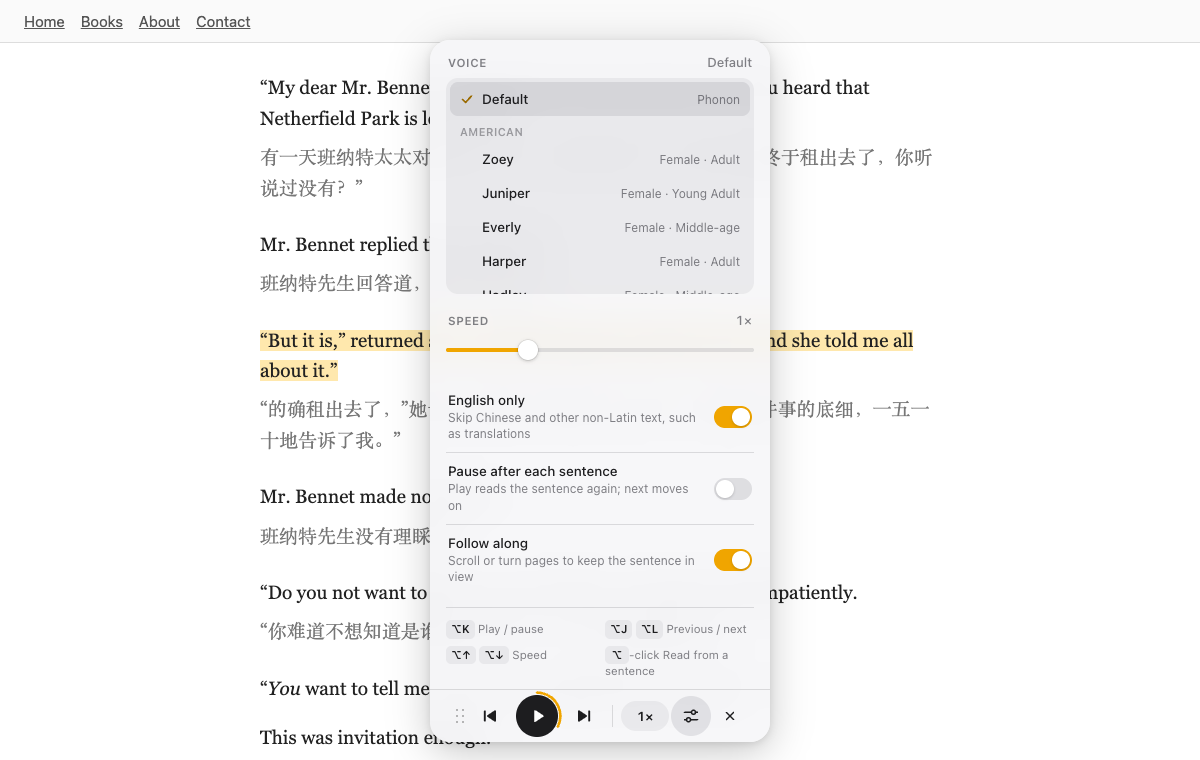
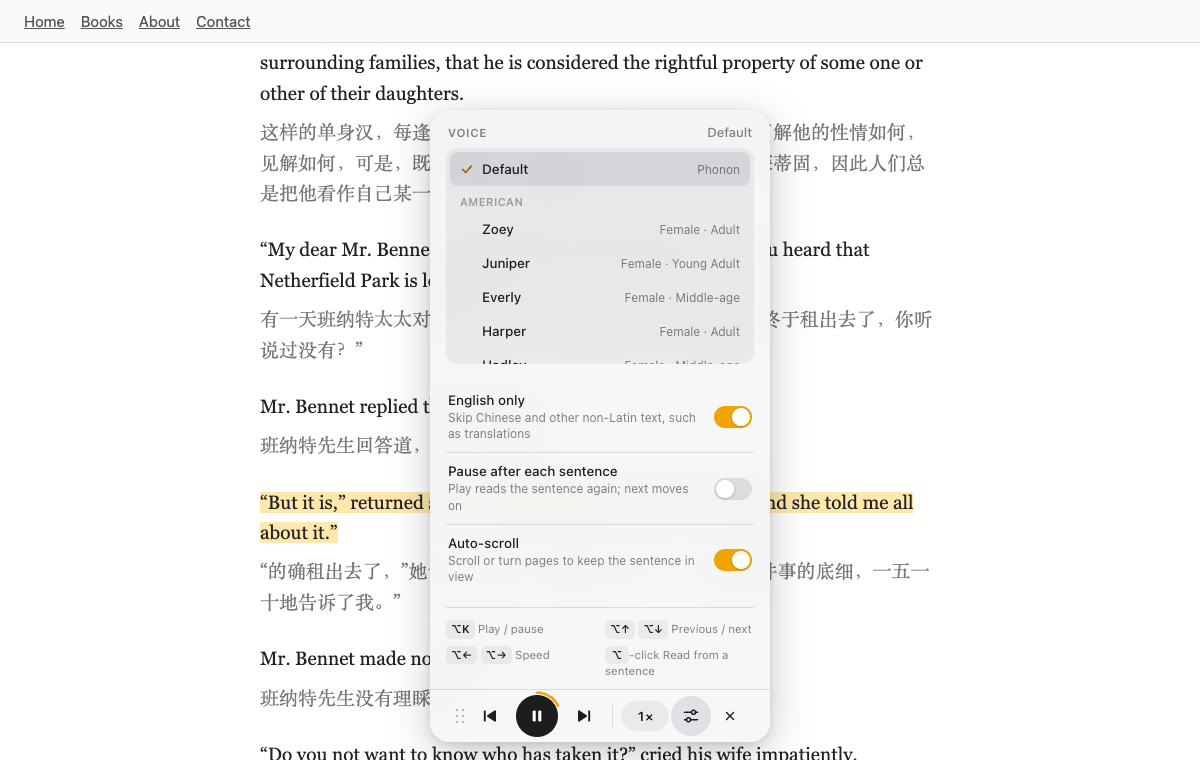
feat: put settings on the left and speed on the right of the iPhone bar
The iPhone bar now reads settings, previous, play, next, speed, which also centers the play button. The desktop bar already had speed on the right and is unchanged. The README screenshots are retaken to show the current bar and settings card.

diff --git a/src/player/player.html b/src/player/player.html
@@ -72,7 +72,6 @@
 
       <div id="controls" role="toolbar" aria-label="Lector">
         <span class="grip desktop-only" aria-hidden="true"></span>
-        <button type="button" class="chip-btn touch-only" id="speed-t" aria-label="Speed"></button>
         <button type="button" class="icon" id="prev" aria-label="Previous sentence"></button>
         <button type="button" class="play" id="play" aria-label="Play">
           <svg class="ring" viewBox="0 0 48 48" aria-hidden="true">
@@ -82,6 +81,7 @@
           <span class="glyph"></span>
         </button>
         <button type="button" class="icon" id="next" aria-label="Next sentence"></button>
+        <button type="button" class="chip-btn touch-only" id="speed-t" aria-label="Speed"></button>
         <span class="sep desktop-only" aria-hidden="true"></span>
         <button type="button" class="chip-btn desktop-only" id="speed-d" aria-label="Speed"></button>
         <button type="button" class="icon" id="more" aria-label="Settings"></button>

diff --git a/src/player/player.ts b/src/player/player.ts
@@ -32,6 +32,8 @@ const moreBtn = $<HTMLButtonElement>('more');
 const closeBtn = $<HTMLButtonElement>('close');
 const speedBtn = $<HTMLButtonElement>(platform === 'touch' ? 'speed-t' : 'speed-d');
 const glyph = playBtn.querySelector('.glyph') as HTMLElement;
+// on touch the bar is settings · previous · play · next · speed; on desktop settings sits at the end
+if (platform === 'touch') controls.insertBefore(moreBtn, prevBtn);
 
 const SPEED_PRESETS = [0.75, 1, 1.25, 1.5, 1.75, 2];
 const MOD = '⌥';
